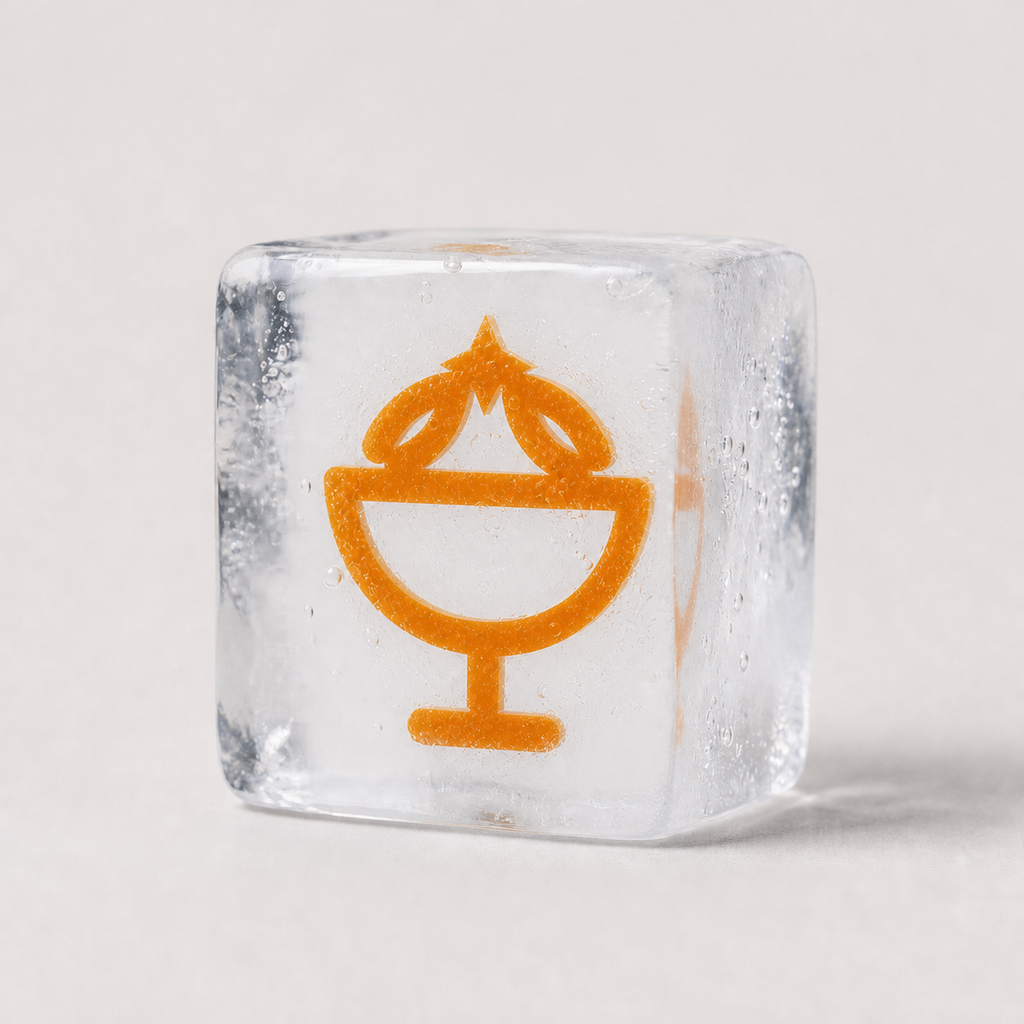
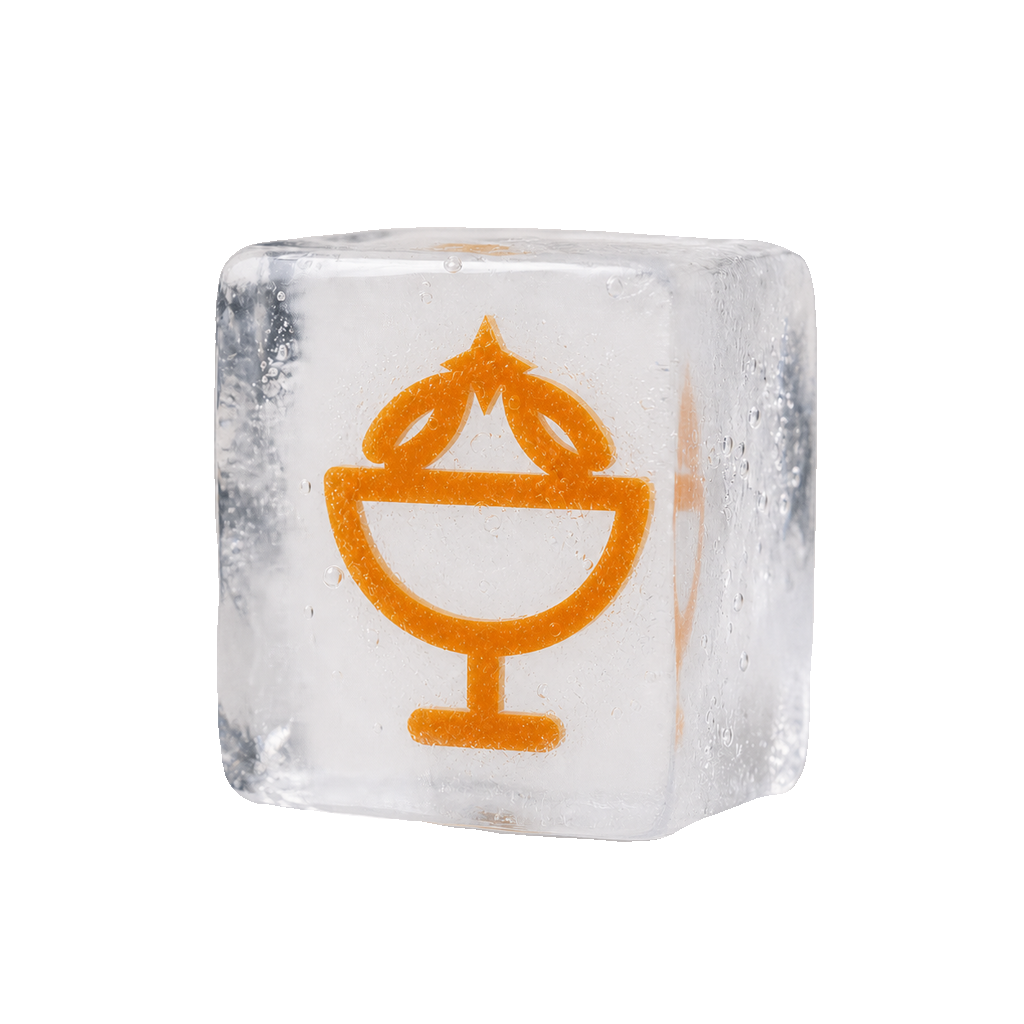
fix(brand): make ice hero background transparent

diff --git a/assets/brand/README.md b/assets/brand/README.md
@@ -7,10 +7,10 @@ The Ambrosia mark belongs to the shared Heliantheon visual family: geometric con
 | `mark.svg` | Primary full-color vector mark |
 | `mark-monochrome.svg` | Single-color mark for neutral surfaces |
 | `icon-512.png` | Raster icon for platforms that do not accept SVG |
-| `hero-ice.png` | Ice-block hero for README and promotional use |
+| `hero-ice.png` | Transparent ice-block hero for README and promotional use |
 
 - Accent: `#D97706`
 - Keep clear space around the mark equal to at least one eighth of its width.
 - Do not stretch, rotate, recolor, add effects, or combine the mark with another product emblem.
 - Prefer the primary mark on white or very light neutral backgrounds; use the monochrome mark when color is unavailable.
-- Use the ice-block hero at 256 px or larger; do not use it as a favicon or small interface icon.
+- Use the ice-block hero at 256 px or larger, keep its canvas transparent, and do not use it as a favicon or small interface icon.
